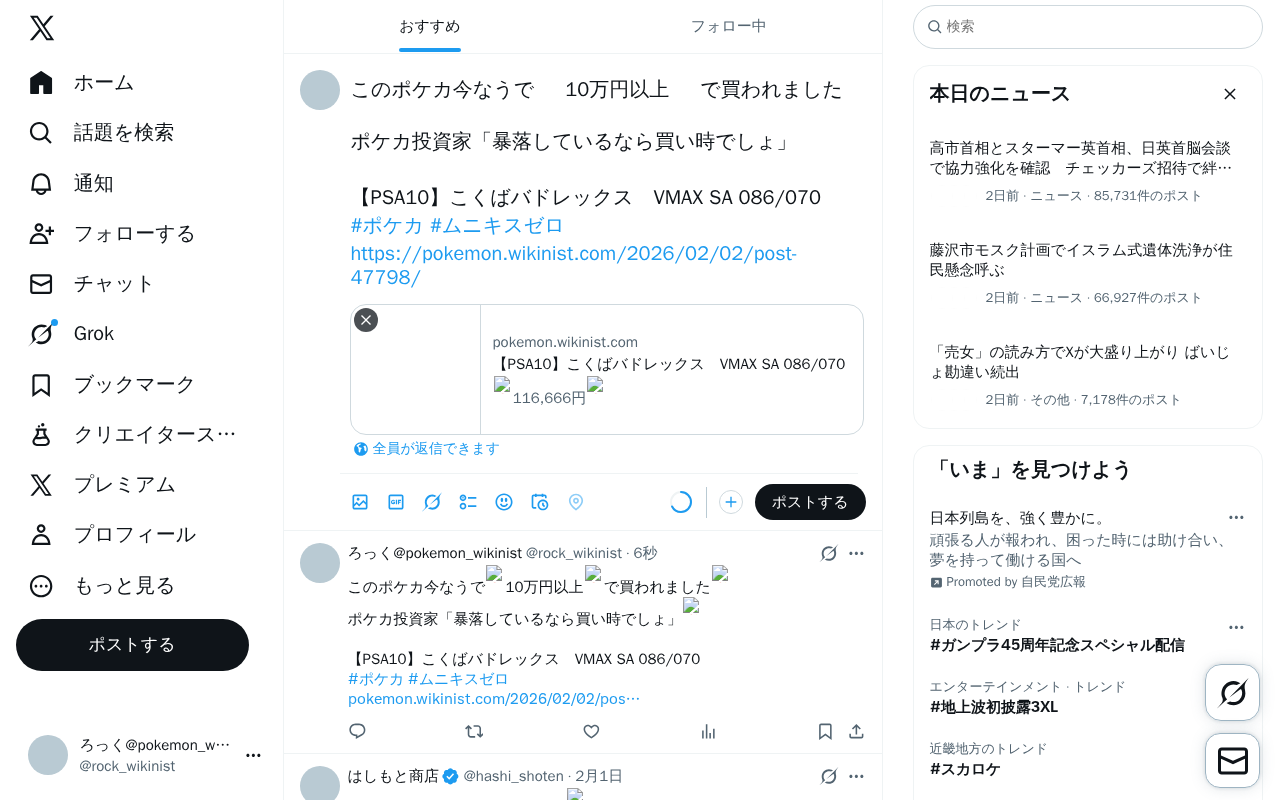
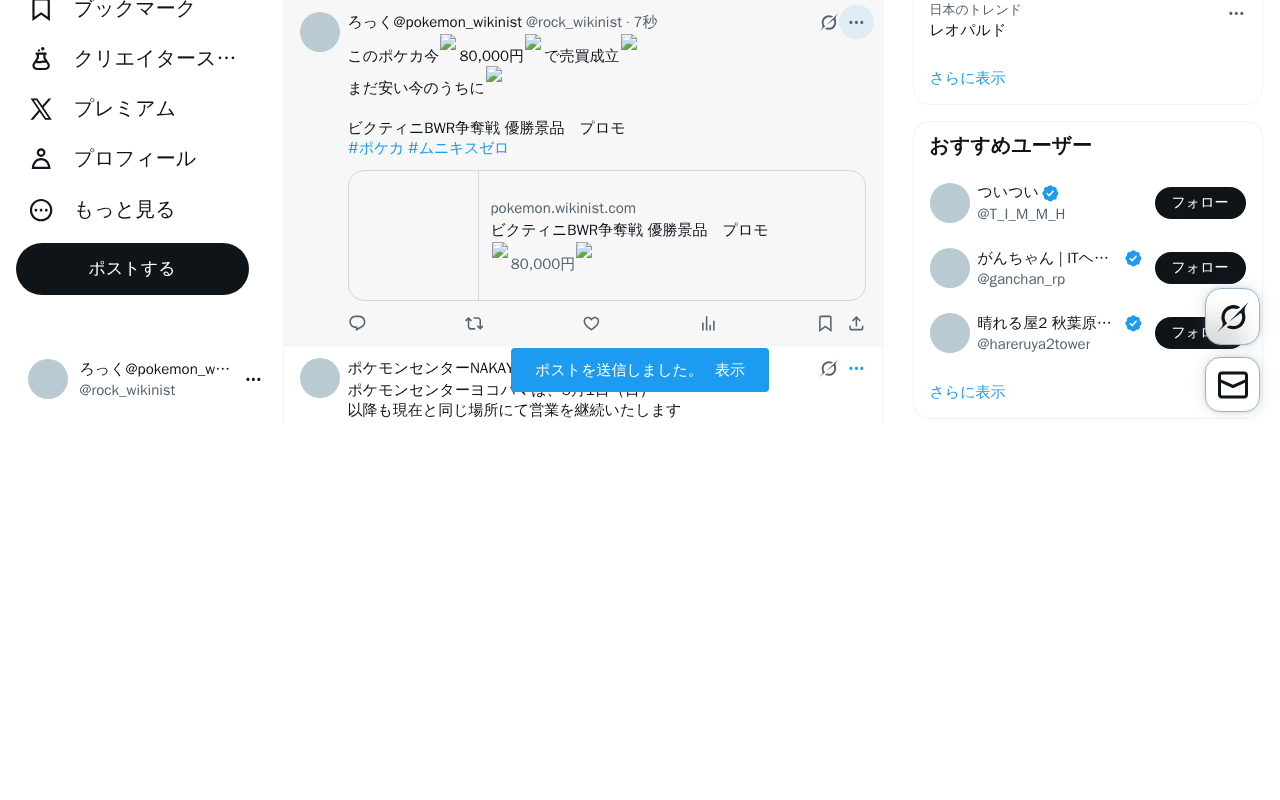
update system data

diff --git a/content/posts/test-pokemon-20260202-215617.md b/content/posts/test-pokemon-20260202-215617.md
@@ -1,0 +1,38 @@
+---
+title: "ビクティニBWR争奪戦 優勝景品　プロモ"
+date: 2026-02-02T21:56:17+09:00
+description: "🔥80,000円🔥 メルカリで「ビクティニBWR争奪戦 優勝景品　プロモ」が販売中！"
+amazon_url: "https://jp.mercari.com/item/m32318973376?afid=1391290753"
+robotsNoIndex: true
+categories: ["ポケモン"]
+tags: ["プロモ", "5万円以上"]
+cover:
+  image: "https://static.mercdn.net/thumb/item/webp/m32318973376_1.jpg?1770035851"
+  hiddenInList: true
+  hiddenInSingle: true
+---
+
+<div class="image-and-buttons">
+    <div class="image-area" style="margin-bottom: 20px; text-align: center;">
+        <a href="https://jp.mercari.com/item/m32318973376?afid=1391290753" target="_blank" rel="nofollow sponsored noopener noreferrer">
+            <img src="https://static.mercdn.net/thumb/item/webp/m32318973376_1.jpg?1770035851" alt="80,000" style="max-width: 100%; border-radius: 8px; border: 1px solid #ddd;" />
+        </a>
+        <br><span style="font-size:1.5em;color:red;font-weight:bold;">🔥80,000円🔥</span>
+    </div>
+    <div class="link-buttons">
+        <a href="https://jp.mercari.com/item/m32318973376?afid=1391290753" target="_blank" rel="nofollow sponsored noopener noreferrer">
+            💎 商品状態を見る
+        </a>
+        <a href="https://jp.mercari.com/search?afid=1391290753&category_id=1289&keyword=%E3%83%93%E3%82%AF%E3%83%86%E3%82%A3%E3%83%8BBWR%E4%BA%89%E5%A5%AA%E6%88%A6%20%E5%84%AA%E5%8B%9D%E6%99%AF%E5%93%81%E3%80%80%E3%83%97%E3%83%AD%E3%83%A2" target="_blank" rel="nofollow sponsored noopener noreferrer">
+            🔍 類似商品を見る
+        </a>
+        <a href="https://jp.mercari.com/search?afid=1391290753&brand_id=&category_id=1289&color_id=&item_condition_id=&item_types=&keyword=%E3%83%93%E3%82%AF%E3%83%86%E3%82%A3%E3%83%8BBWR%E4%BA%89%E5%A5%AA%E6%88%A6%20%E5%84%AA%E5%8B%9D%E6%99%AF%E5%93%81%E3%80%80%E3%83%97%E3%83%AD%E3%83%A2&order=desc&shipping_method=&shipping_payer_id=&size_id=&sort=created_time&status=sold_out%2Ctrading" target="_blank" rel="nofollow sponsored noopener noreferrer">
+            📈 価格推移・履歴を見る
+        </a>
+    </div>
+</div>
+
+<p style="font-size:1.0em;color:#555;line-height:1.6;">
+「ビクティニBWR争奪戦 優勝景品　プロモ」はメルカリに出品されました！<br>
+最新のポケモン情報は当サイトで随時更新中です。
+</p>
